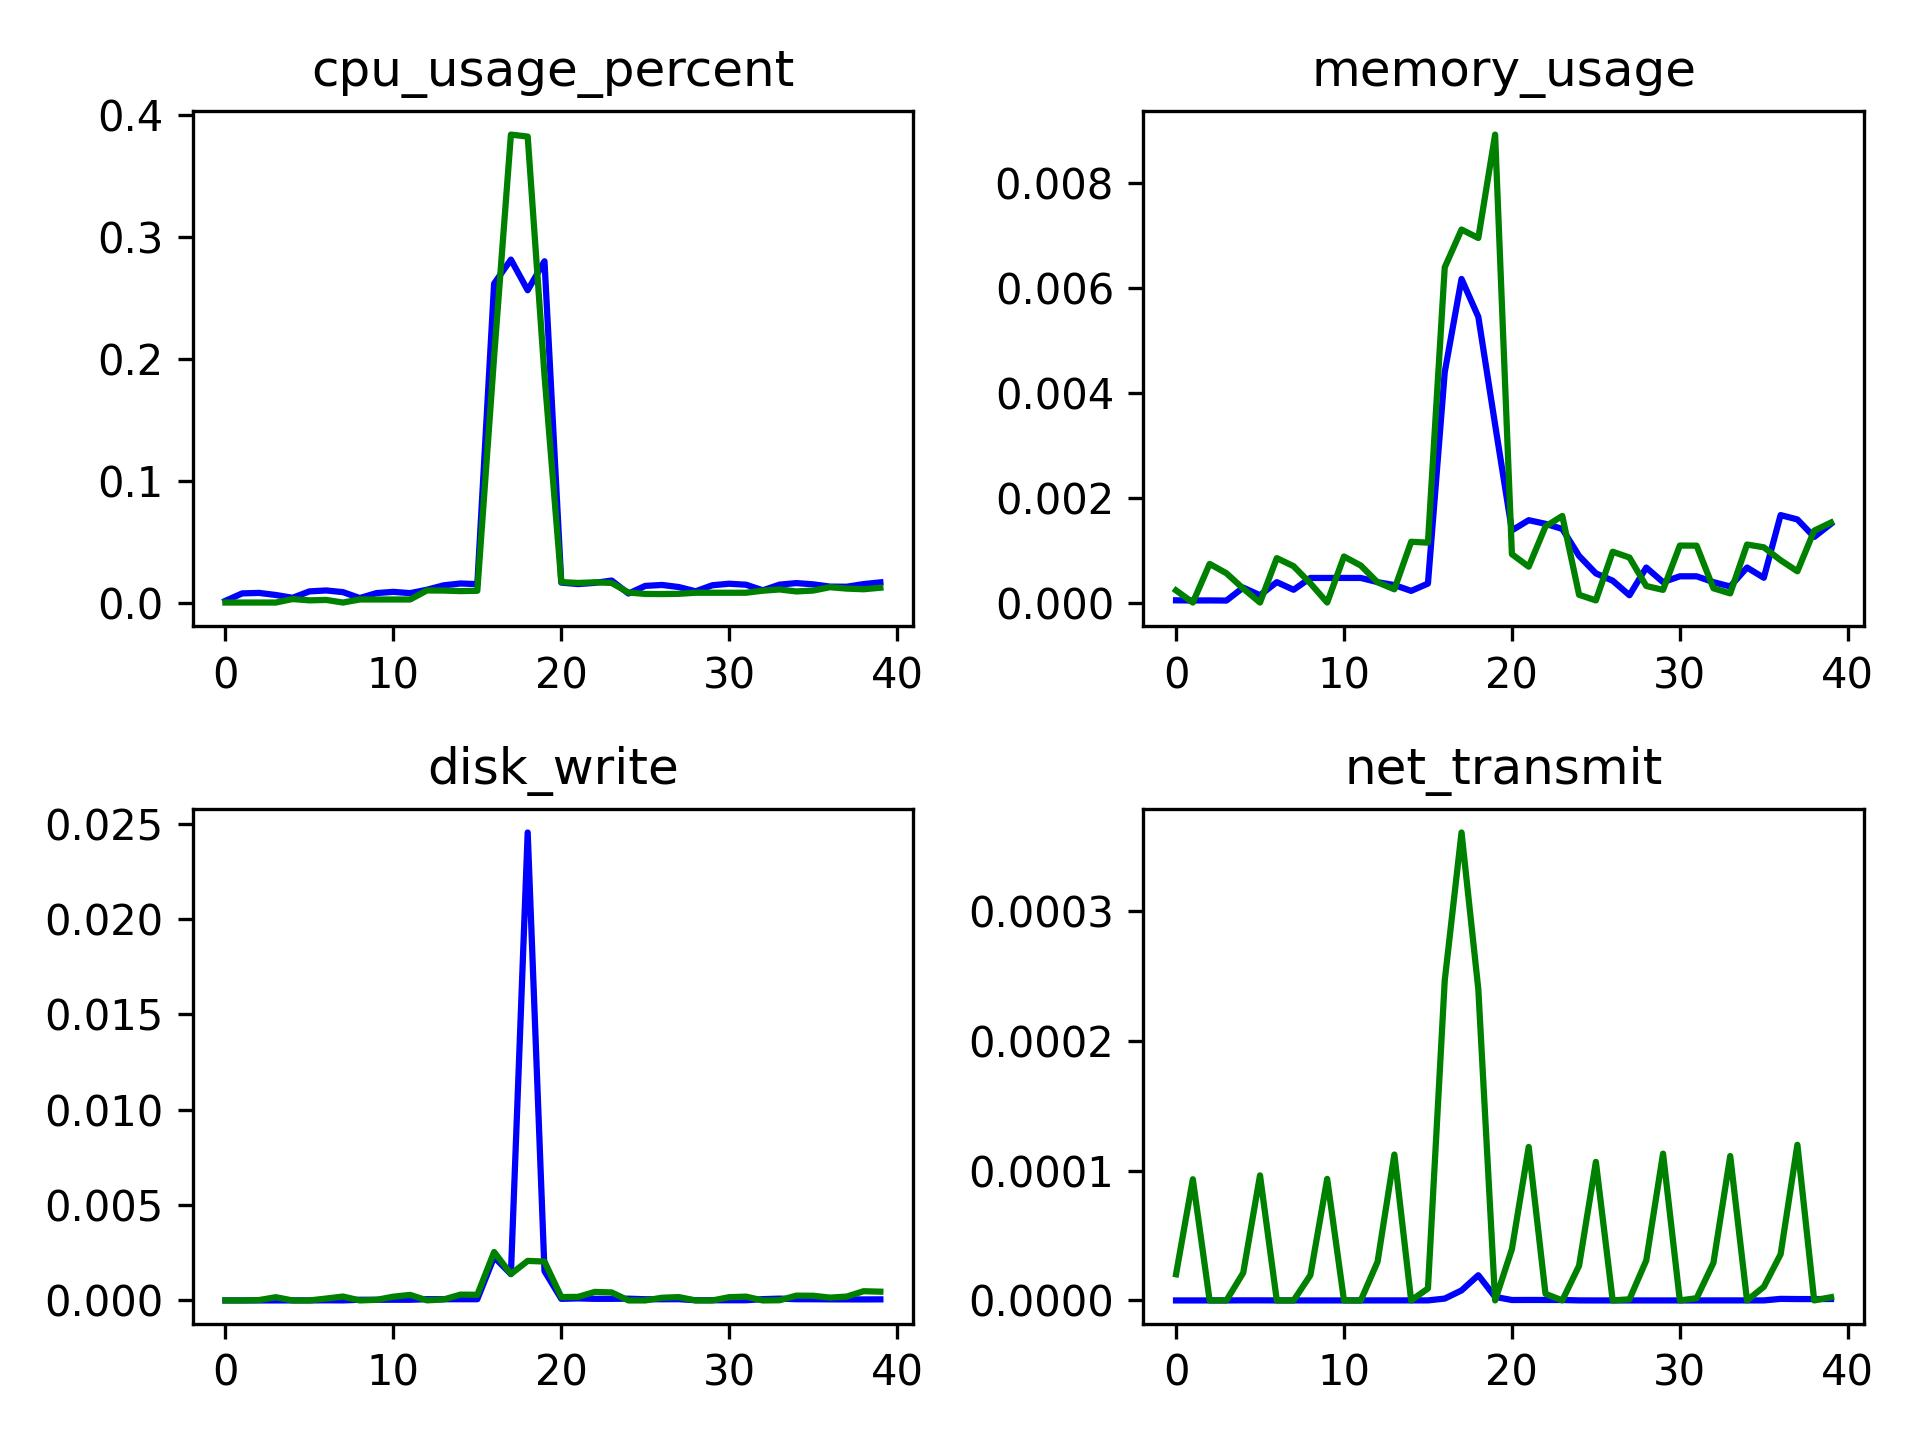
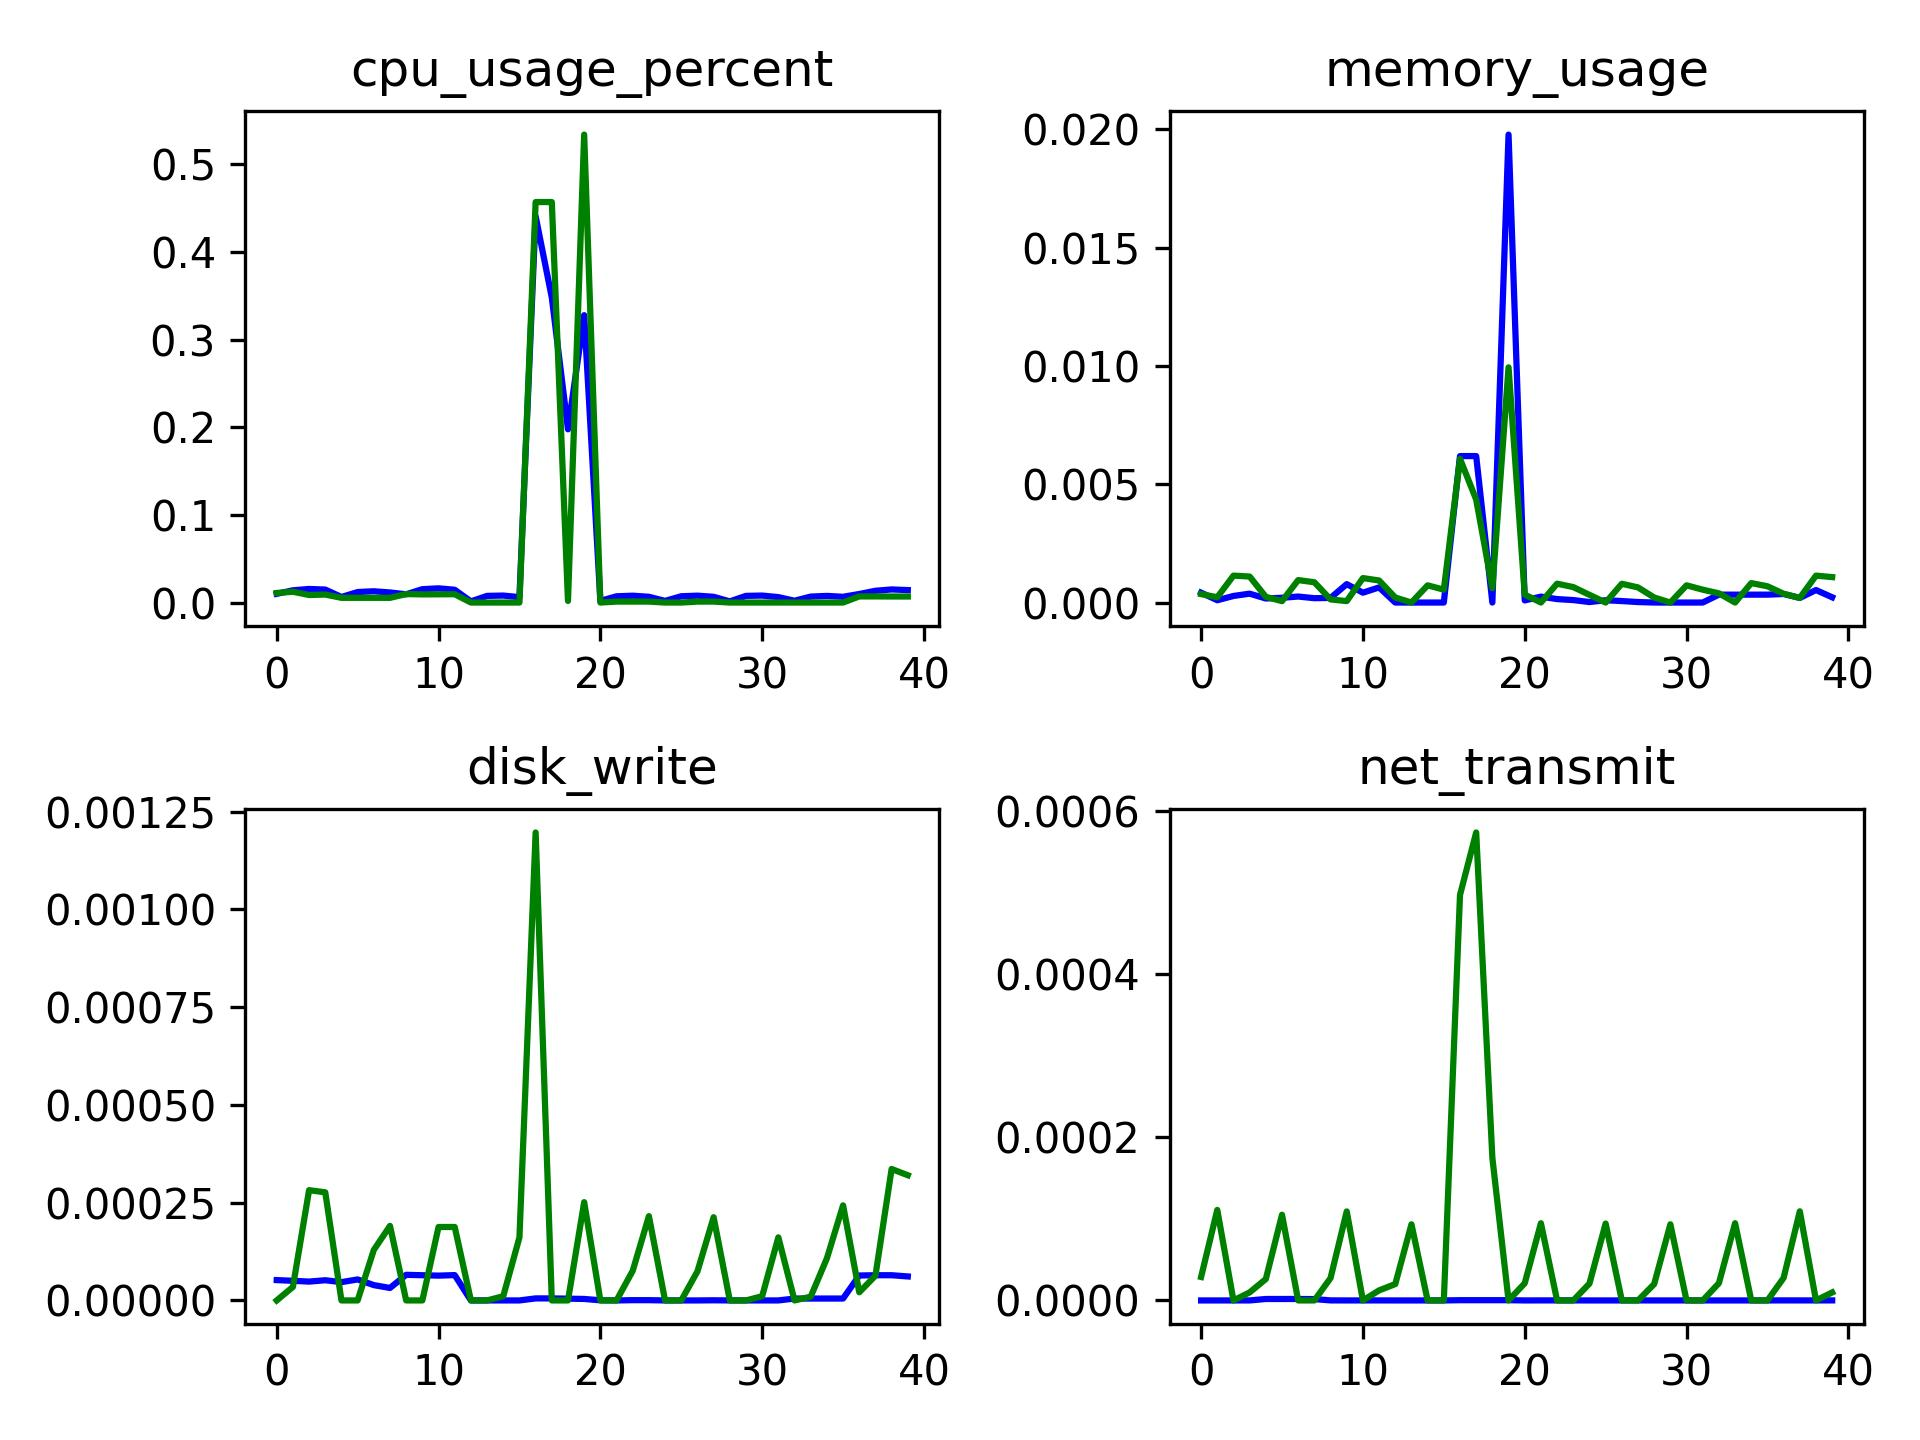
new visualization

diff --git a/TCN_Model.py b/TCN_Model.py
@@ -13,7 +13,7 @@ class Chomp1d(nn.Module):
 
     def forward(self, x):
         """
-        裁剪的模块，裁剪多出来的padding
+        clip module
         """
         return x[:, :, :-self.chomp_size].contiguous()
 
@@ -21,7 +21,7 @@ class Chomp1d(nn.Module):
 class TemporalBlock(nn.Module):
     def __init__(self, n_inputs, n_outputs, kernel_size, stride, dilation, padding, dropout=0.2):
         """
-        相当于一个Residual block
+        One TCN block
 
         :param n_inputs: int, input channel numbers
         :param n_outputs: int, output channel numbers
@@ -35,13 +35,13 @@ class TemporalBlock(nn.Module):
         self.conv1 = weight_norm(nn.Conv1d(n_inputs, n_outputs, kernel_size,
                                            stride=stride, padding=padding, dilation=dilation))
         # 经过conv1，输出的size其实是(Batch, input_channel, seq_len + padding)
-        self.chomp1 = Chomp1d(padding)  # 裁剪掉多出来的padding部分，维持输出时间步为seq_len
+        self.chomp1 = Chomp1d(padding)  # 
         self.relu1 = nn.ReLU()
         self.dropout1 = nn.Dropout(dropout)
 
         self.conv2 = weight_norm(nn.Conv1d(n_outputs, n_outputs, kernel_size,
                                            stride=stride, padding=padding, dilation=dilation))
-        self.chomp2 = Chomp1d(padding)  # 裁剪掉多出来的padding部分，维持输出时间步为seq_len
+        self.chomp2 = Chomp1d(padding)  # 
         self.relu2 = nn.ReLU()
         self.dropout2 = nn.Dropout(dropout)
 
@@ -75,19 +75,19 @@ class TemporalBlock(nn.Module):
 class TCN(nn.Module):
     def __init__(self, num_inputs, output_size, num_channels, kernel_size=2, dropout=0.2):
         """
-        :param num_inputs: int， 输入通道数
-        :param channels: list，每层的hidden_channel数，例如[25,25,25,25]表示有4个隐层，每层hidden_channel数为25
-        :param kernel_size: int, 卷积核尺寸
-        :param dropout: float, drop_out比率
+        :param num_inputs: int， input channels
+        :param channels: list，hidden channels of each layer
+        :param kernel_size: int, size of convolution channels
+        :param dropout: float, drop_out ratio
         """
         super(TCN, self).__init__()
         super().__init__()
         layers = []
         num_levels = len(num_channels)
         for i in range(num_levels):
-            dilation_size = 2 ** i  # 膨胀系数：1，2，4，8……
-            in_channels = num_inputs if i == 0 else num_channels[i - 1]  # 确定每一层的输入通道数
-            out_channels = num_channels[i]  # 确定每一层的输出通道数
+            dilation_size = 2 ** i  # dilation coefficient：1，2，4，8……
+            in_channels = num_inputs if i == 0 else num_channels[i - 1]  # input channels at each layer
+            out_channels = num_channels[i]  # the output channels of each layer
             layers += [TemporalBlock(in_channels, out_channels, kernel_size, stride=1, dilation=dilation_size,
                                      padding=(kernel_size - 1) * dilation_size, dropout=dropout)]
 

diff --git a/main.py b/main.py
@@ -137,24 +137,26 @@ def evaluation(model, test_loader, device):
     test_pred = np.concatenate(test_pred, axis=0)
     print("Test label shape: ", test_label.shape, "test_pred shape: ", test_pred.shape)
     print("predcition is: ", test_pred.shape, " | ", test_label.shape)
-    rme_value = math.sqrt(mean_squared_error(test_label, test_pred))
-    print('TOTAL RME value: %.2f RMSE' % (rme_value))
+    #rme_value = math.sqrt(mean_squared_error(test_label, test_pred))
+    #print('TOTAL RME value: %.4f RMSE' % (rme_value))
 
     cpu_label, cpu_pred = test_label[:, :4], test_pred[:, :4]
     cpu_rme_value = math.sqrt(mean_squared_error(cpu_label, cpu_pred))
-    print('CPU RME value: %.2f RMSE' % (cpu_rme_value))
+    print('CPU RME value: %.4f RMSE' % (cpu_rme_value))
 
     mem_label, mem_pred = test_label[:, 4:8], test_pred[:, 4:8]
     mem_rme_value = math.sqrt(mean_squared_error(mem_label, mem_pred))
-    print('MEMORY RME value: %.2f RMSE' % (mem_rme_value))
+    print('MEMORY RME value: %.4f RMSE' % (mem_rme_value))
 
     disk_label, disk_pred = test_label[:, 8:12], test_pred[:, 8:12]
     disk_rme_value = math.sqrt(mean_squared_error(disk_label, disk_pred))
-    print('DISK RME value: %.2f RMSE' % (disk_rme_value))
+    print('DISK RME value: %.4f RMSE' % (disk_rme_value))
 
     net_label, net_pred = test_label[:, 12:], test_pred[:, 12:]
     net_rme_value = math.sqrt(mean_squared_error(net_label, net_pred))
-    print('NET RME value: %.2f RMSE' % (net_rme_value))
+    print('NET RME value: %.4f RMSE' % (net_rme_value))
+
+    print('TOTAL RME value: %.4f RMSE' % ((cpu_rme_value+mem_rme_value+disk_rme_value+net_rme_value)/4))
 
     return cpu_label, cpu_pred, mem_label, mem_pred, disk_label, disk_pred, net_label, net_pred
 

diff --git a/evaluation.py b/evaluation.py
@@ -81,6 +81,42 @@ if __name__ == '__main__':
     net_label_v = net_label[indexs].flatten() # shape = (10,4) => (40,)
     net_pred_v = net_pred[indexs].flatten()
 
+    
+    plt.plot(cpu_pred_v,  color='blue', linewidth=2)
+    plt.plot(cpu_label_v, color='green', linewidth=2)  
+    plt.title('Cpu Usage')
+    plt.xlabel('Time steps')
+    plt.ylabel('Cpu Usage')
+    plt.savefig('./visualization_result/cpu_comparision.jpg', dpi=300)
+    plt.close()
+
+    plt.plot(mem_label_v,  color='blue', linewidth=2)
+    plt.plot(mem_pred_v, color='green', linewidth=2)  
+    plt.title('Memory Usage')
+    plt.xlabel('Time steps')
+    plt.ylabel('Memory Usage')
+    plt.savefig('./visualization_result/Mem_comparision.jpg', dpi=300)
+    plt.close()
+
+    plt.plot(disk_label_v,  color='blue', linewidth=2)
+    plt.plot(disk_pred_v, color='green', linewidth=2)  
+    plt.title('Disk Write')
+    plt.xlabel('Time steps')
+    plt.ylabel('Disk Write')
+    plt.savefig('./visualization_result/Disk_comparision.jpg', dpi=300)
+    plt.close()
+
+    plt.plot(net_label_v,  color='blue', linewidth=2)
+    plt.plot(net_pred_v, color='green', linewidth=2)  
+    plt.title('Network received')
+    plt.xlabel('Time steps')
+    plt.ylabel('Network received')
+    plt.savefig('./visualization_result/Net_comparision.jpg', dpi=300)
+    plt.close()
+    
+    print("Saved at visualization result")
+    
+    '''
     fig, axs = plt.subplots(2, 2)
     
     axs[0, 0].plot(cpu_pred_v, color='b')
@@ -101,3 +137,4 @@ if __name__ == '__main__':
 
     plt.tight_layout()
     plt.savefig('comparision_evaluation.jpg', dpi=300)
+    '''
